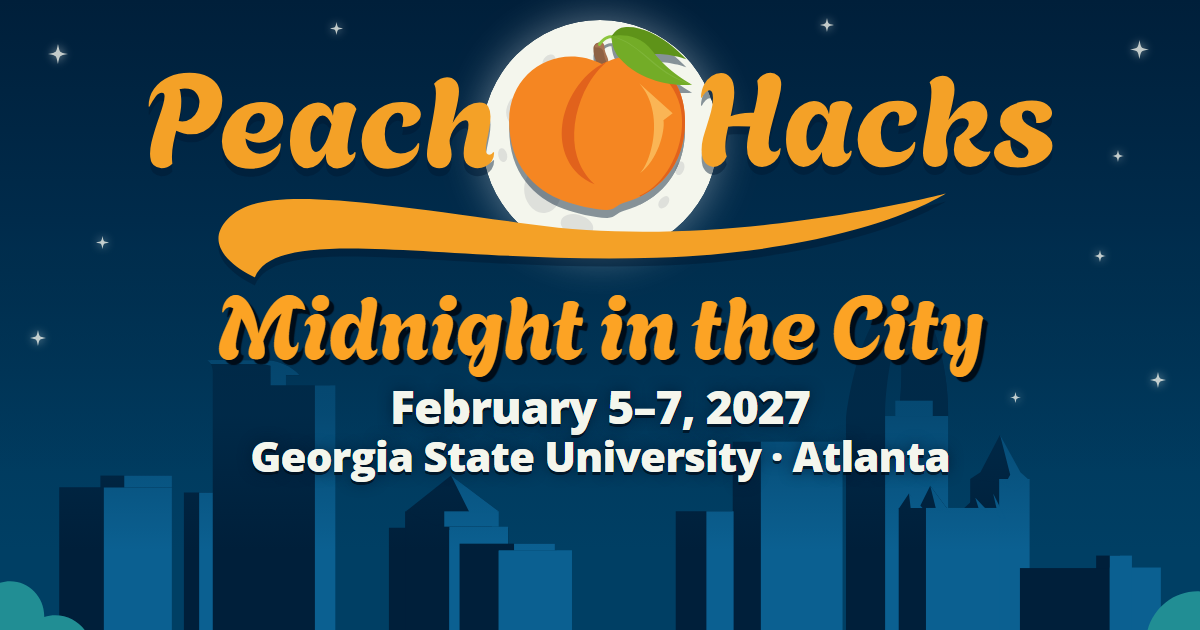
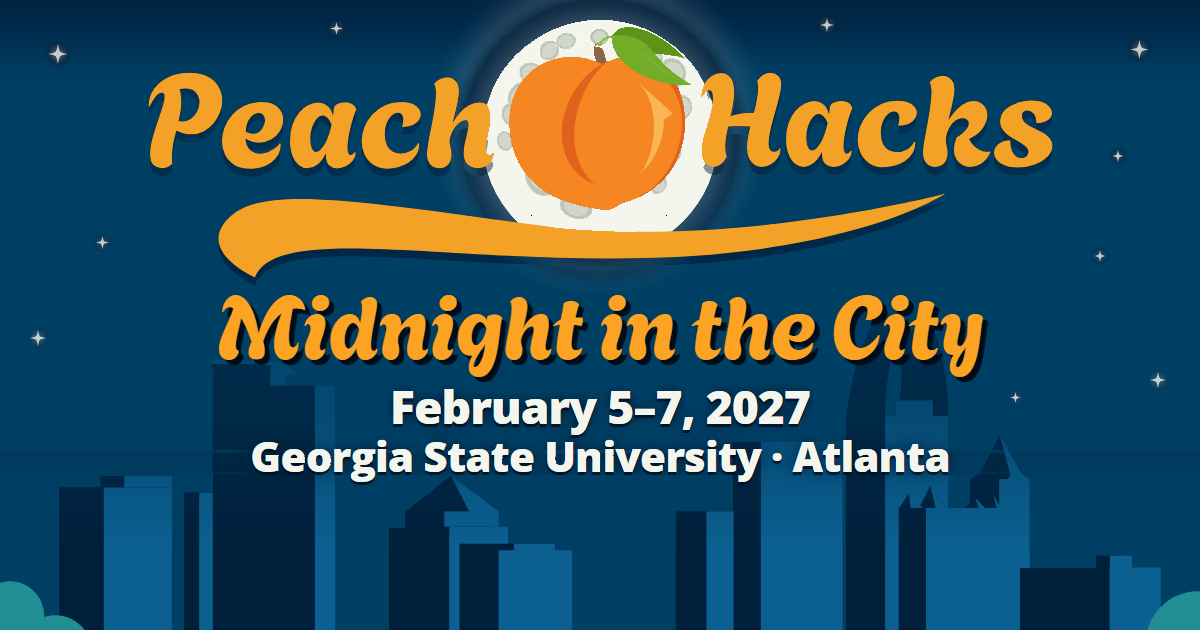
Updated embed and sky background

diff --git a/web/src/styles.css b/web/src/styles.css
@@ -14,7 +14,7 @@ main:focus { outline: none; }
 .noscript-note a { text-decoration: underline; text-underline-offset: 3px; }
 
 .site-header { position: fixed; z-index: 60; top: 0; right: 0; left: 0; display: flex; align-items: center; gap: 16px; height: var(--header-h); padding: 0 clamp(14px, 3vw, 40px); color: var(--cream); pointer-events: none; transition: background-color .25s ease, box-shadow .25s ease, border-color .25s ease; border-bottom: 1px solid transparent; box-sizing: border-box; background: transparent; }
-.site-header.is-solid { background: transparent; border-bottom-color: transparent; box-shadow: none; pointer-events: auto; }
+.site-header.is-solid { background: var(--blue); border-bottom-color: rgba(244, 246, 237, .12); box-shadow: 0 10px 24px rgba(0, 15, 30, .35); pointer-events: auto; }
 .site-brand { display: flex; align-items: center; min-height: 44px; opacity: 0; visibility: hidden; pointer-events: auto; transition: opacity .25s ease, visibility .25s ease; }
 .site-header.is-solid .site-brand { opacity: 1; visibility: visible; }
 .site-brand img { display: block; width: auto; height: 48px; clip-path: inset(15% 0); }
@@ -35,9 +35,9 @@ main:focus { outline: none; }
 .site-header.is-open .site-menu-icon::before { transform: translateY(7px) rotate(45deg); }
 .site-header.is-open .site-menu-icon::after { transform: translateY(-7px) rotate(-45deg); }
 @media (max-width: 768px) {
-  .site-header.is-open { background: var(--navy); }
+  .site-header.is-open { background: var(--blue); }
   .site-menu-button { display: grid; }
-  .site-nav { position: absolute; top: 100%; right: 0; left: 0; display: none; flex-direction: column; align-items: stretch; gap: 0; padding: 4px 20px 16px; background: var(--navy); border-bottom: 1px solid var(--navy); box-shadow: 0 18px 30px rgba(0, 15, 30, .45); }
+  .site-nav { position: absolute; top: 100%; right: 0; left: 0; display: none; flex-direction: column; align-items: stretch; gap: 0; padding: 4px 20px 16px; background: var(--blue); border-bottom: 1px solid rgba(244, 246, 237, .12); box-shadow: 0 18px 30px rgba(0, 15, 30, .45); }
   .site-header.is-open .site-nav { display: flex; }
   .site-nav-link { padding: 16px 4px; border-bottom: 1px solid rgba(244, 246, 237, .12); background: none; font-size: 15px; text-shadow: none; }
   .site-nav-link:last-child { border-bottom: 0; }
@@ -46,7 +46,7 @@ main:focus { outline: none; }
 }
 
 .hero-pin { position: relative; height: calc(var(--screen-h) + 80vh); view-timeline: --hero block; }
-.intro { --scene-shift: clamp(0px, calc(100vw * .5745 - 42dvh), 46dvh); position: sticky; top: 0; height: var(--screen-h); overflow: clip; text-align: center; background: #003f64; contain: paint; }
+.intro { --scene-shift: clamp(0px, calc(100vw * .5745 - 42dvh), 46dvh); position: sticky; top: 0; height: var(--screen-h); overflow: clip; text-align: center; background: linear-gradient(180deg, #001f3a 0%, #003f64 18%, #003f64 100%); contain: paint; }
 .hero-scene { position: absolute; z-index: 2; top: .5vh; left: 0; width: 100%; aspect-ratio: 705 / 660; pointer-events: none; }
 .hero-scene::after { position: absolute; z-index: -1; top: 97%; right: 0; left: 0; height: 160dvh; background: #10689b; content: ''; }
 .hero-art { position: absolute; top: 0; left: 0; width: 100%; height: auto; pointer-events: none; }
@@ -77,7 +77,7 @@ main:focus { outline: none; }
 .cloud-three { top: 16%; width: clamp(130px, 17vw, 260px); animation-duration: 320s; animation-delay: -118s; }
 .hero-stack { --hero-top: clamp(48px, 7.8vh, 64px); --hero-bottom: clamp(28px, 4.5vh, 48px); position: relative; z-index: 3; display: grid; grid-template-rows: auto minmax(8px, clamp(0px, 20vw, 200px)) auto; align-content: start; justify-items: center; height: var(--screen-h); padding: var(--hero-top) 24px var(--hero-bottom); }
 .hero-logo-shell { grid-row: 1; display: grid; transform-origin: 50% 20%; }
-.hero-logo-circle { grid-row: 1; grid-column: 1; align-self: center; justify-self: center; z-index: 1; width: calc(var(--hero-logo-w) * .32); aspect-ratio: 1; border-radius: 50%; background: #fff; box-shadow: 0 0 24px rgba(255, 255, 255, .35); pointer-events: none; }
+.hero-logo-circle { grid-row: 1; grid-column: 1; align-self: center; justify-self: center; z-index: 1; width: calc(var(--hero-logo-w) * .32); aspect-ratio: 1; border-radius: 50%; background: #f4f6ed url('/assets/moon.svg') center / contain no-repeat; filter: drop-shadow(0 0 16px rgba(244, 246, 237, .45)); pointer-events: none; }
 .hero-logo-picture { grid-row: 1; grid-column: 1; display: grid; }
 .hero-logo { grid-row: 1; grid-column: 1; position: relative; left: -0.5%; z-index: 1; display: block; width: var(--hero-logo-w); height: auto; margin: 0; object-fit: contain; clip-path: inset(15% 0); filter: drop-shadow(0 8px 0 rgba(0,31,58,.18)); }
 .hero-card-shell { grid-row: 3; position: relative; z-index: 5; display: grid; justify-items: center; width: 100%; }
@@ -318,7 +318,7 @@ html.tag-static .register-panel { transform: none; }
   .register-panel { width: 100%; height: 100%; min-height: 0; max-height: none; border-radius: 0; box-shadow: none; }
 }
 
-.sponsor-page { position: relative; isolation: isolate; display: flex; flex-direction: column; min-height: 100vh; overflow-x: clip; background: #003f64; }
+.sponsor-page { position: relative; isolation: isolate; display: flex; flex-direction: column; min-height: 100vh; overflow-x: clip; background: linear-gradient(180deg, #001f3a 0%, #003f64 18%, #003f64 100%); }
 .sponsor-main { position: relative; flex: 1; padding: calc(var(--header-h) + clamp(32px, 7vw, 88px)) 24px clamp(56px, 8vw, 104px); }
 .sponsor-stars { z-index: 0; }
 .sponsor-moon { position: absolute; z-index: 0; top: calc(var(--header-h) + 28px); right: max(24px, calc(50% - 620px)); width: clamp(64px, 9vw, 120px); height: auto; filter: brightness(1.08) drop-shadow(0 0 18px rgba(244,246,237,.62)); pointer-events: none; }
